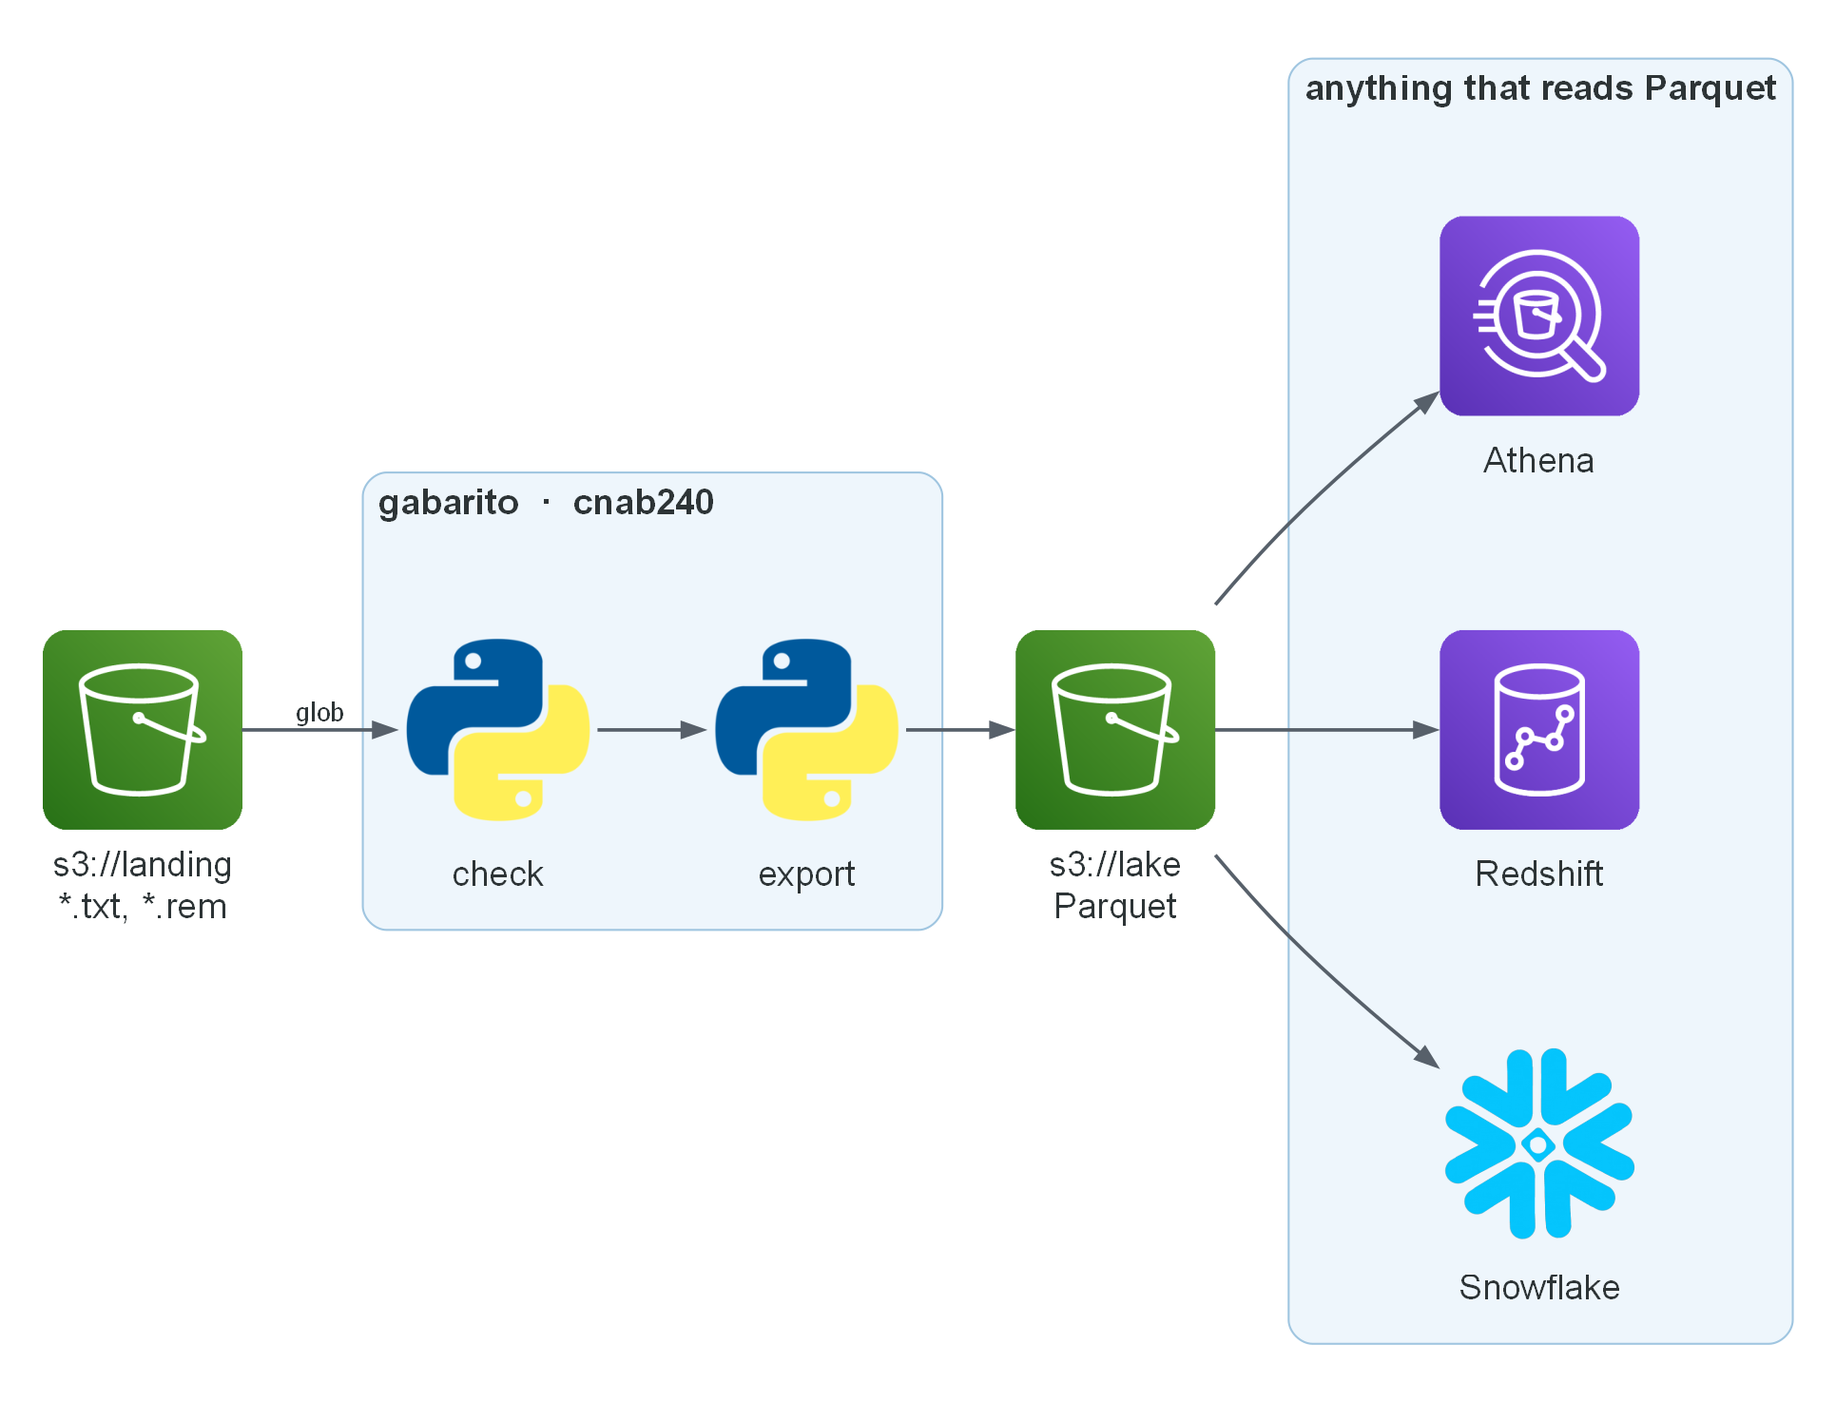
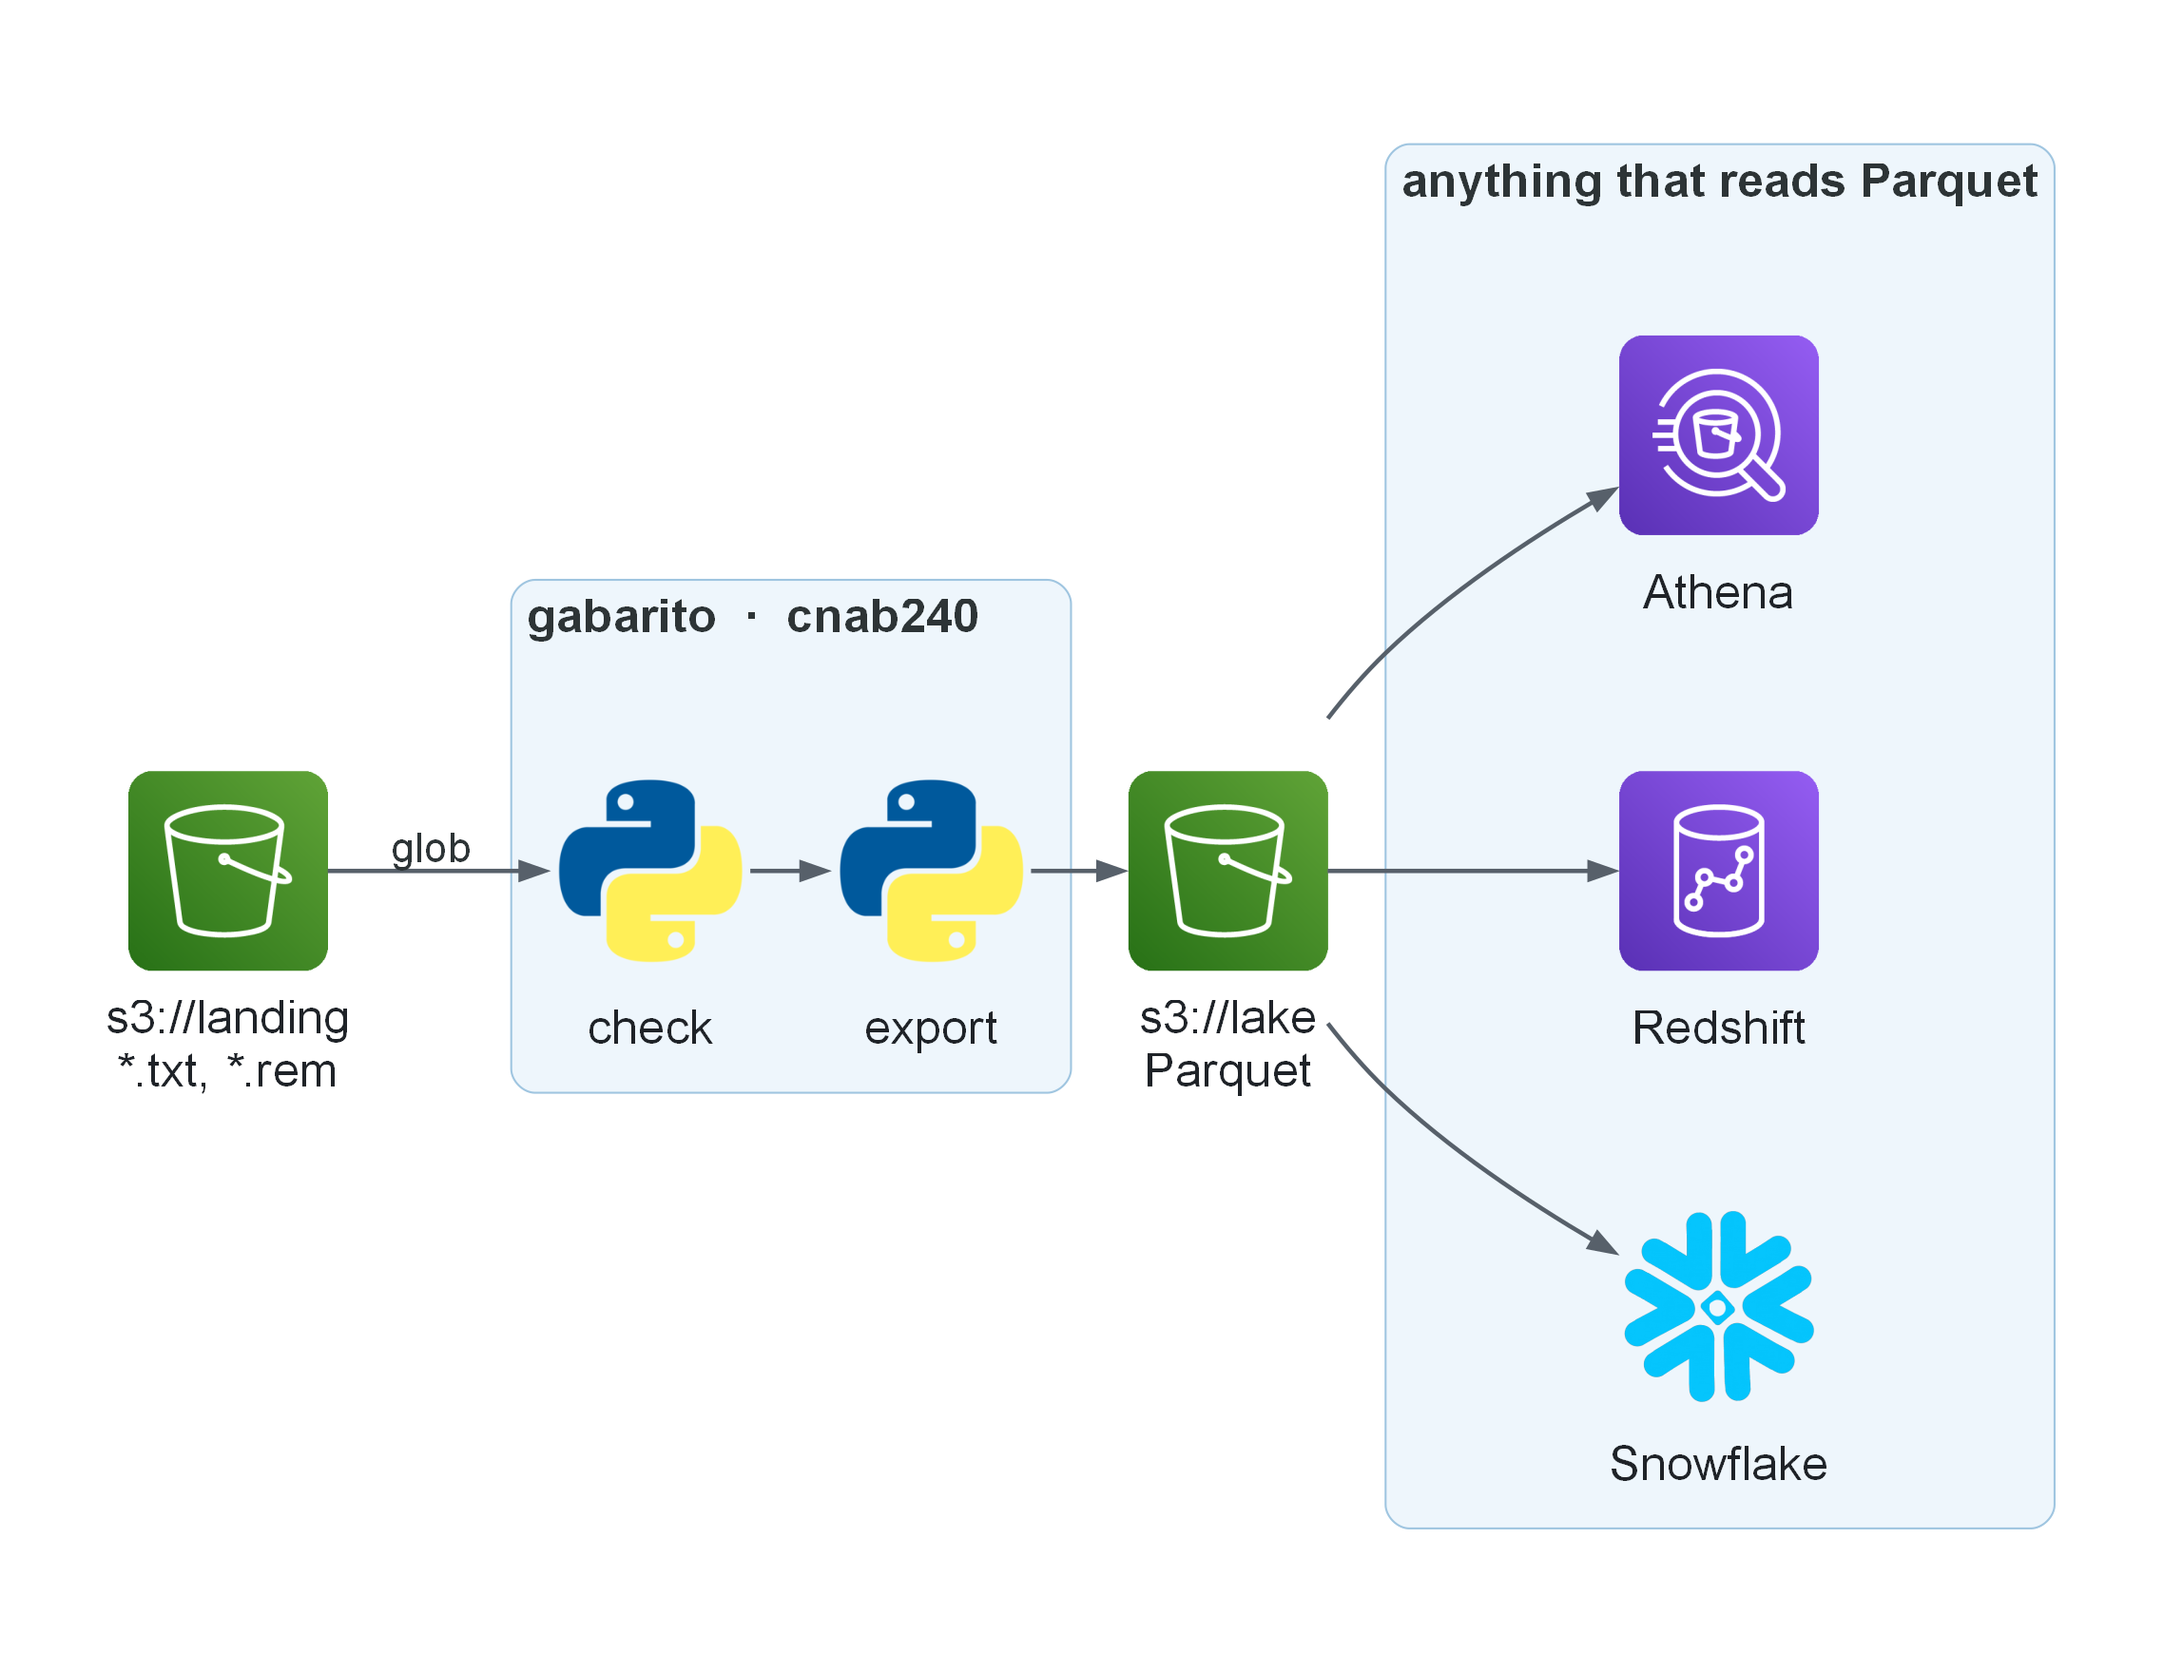
Diagrams: bigger text, one font for nodes and arrows, no clipped labels

diff --git a/docs/make_diagrams.py b/docs/make_diagrams.py
@@ -17,18 +17,20 @@ from diagrams.programming.language import Python
 from diagrams.saas.analytics import Snowflake
 
 HERE = Path(__file__).parent
-# Sized to stay readable at the width GitHub renders a README (about 850 px).
+# Sized to stay readable at the width GitHub renders a README (about 850 px):
+# large text, little space between nodes.
+FONT = "Arial"
 GRAPH = {
     "splines": "spline",
     "bgcolor": "white",
-    "pad": "0.3",
-    "nodesep": "0.6",
-    "ranksep": "0.75",
+    "pad": "0.9",
+    "nodesep": "0.5",
+    "ranksep": "0.55",
     "dpi": "150",
 }
-NODE = {"fontname": "Helvetica", "fontsize": "18"}
-EDGE = {"fontname": "Helvetica", "fontsize": "16", "color": "#57606a", "penwidth": "1.8"}
-CLUSTER = {"fontname": "Helvetica-Bold", "fontsize": "18", "bgcolor": "#eef6fc", "pencolor": "#9fc5e0", "margin": "18"}
+NODE = {"fontname": FONT, "fontsize": "24", "fontcolor": "#1f2328"}
+EDGE = {"color": "#57606a", "penwidth": "2.2", "arrowsize": "1.2"}
+CLUSTER = {"fontname": f"{FONT} Bold", "fontsize": "24", "bgcolor": "#eef6fc", "pencolor": "#9fc5e0", "margin": "20"}
 BAD = {"color": "#b42318", "fontcolor": "#b42318", "style": "dashed"}
 
 
@@ -47,7 +49,12 @@ def diagram(name: str) -> Diagram:
 
 def node(kind: type[Node], label: str) -> Node:
     """A node tall enough that the larger label sits below the icon instead of over it."""
-    return kind(label, height=str(2.3 + 0.45 * label.count("\n")))
+    return kind(label, height=str(2.55 + 0.6 * label.count("\n")))
+
+
+def edge(label: str = "", **attrs: str) -> Edge:
+    """An edge label in the same font as the nodes (the library defaults to another one)."""
+    return Edge(label=f"  {label}  " if label else "", fontname=FONT, fontsize="21", **attrs)
 
 
 with diagram("workflow-load"):
@@ -59,9 +66,9 @@ with diagram("workflow-load"):
     rejects = node(Document, "rejects.csv\nline, reason")
     db = node(PostgreSQL, "Postgres\ntyped table")
 
-    client >> Edge(label="sends") >> file >> check >> Edge(label="file matches") >> load
-    load >> Edge(label="ATTACH") >> db
-    check >> Edge(label="rejects", **BAD) >> rejects
+    client >> edge("sends") >> file >> check >> edge("file matches") >> load
+    load >> edge("ATTACH") >> db
+    check >> edge("rejects", **BAD) >> rejects
 
 
 with diagram("workflow-lake"):
@@ -73,7 +80,7 @@ with diagram("workflow-lake"):
     with Cluster("anything that reads Parquet", graph_attr=CLUSTER):
         engines = [node(Athena, "Athena"), node(Redshift, "Redshift"), node(Snowflake, "Snowflake")]
 
-    landing >> Edge(label="glob") >> check >> export >> parquet
+    landing >> edge("glob") >> check >> export >> parquet
     for engine in engines:
         parquet >> engine
 
@@ -86,5 +93,5 @@ with diagram("workflow-return"):
     out = node(MultipleDocuments, "retorno.txt\nheader, lines, trailer")
     client = node(Client, "client or bank")
 
-    db >> Edge(label="SELECT") >> write >> out >> Edge(label="same layout") >> check
-    out >> Edge(label="sent back") >> client
+    db >> edge("SELECT") >> write >> out >> edge("same layout") >> check
+    out >> edge("sent back") >> client
